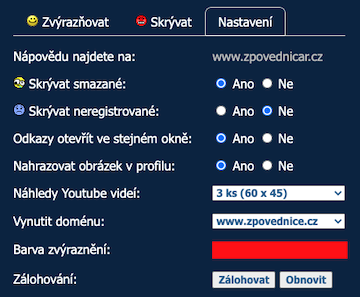
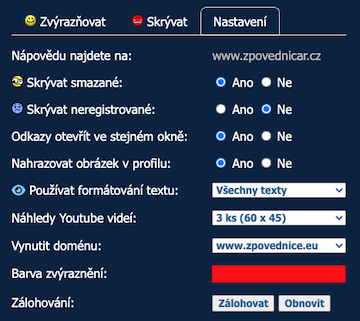
#18 v1.7

diff --git a/README.md b/README.md
@@ -6,9 +6,9 @@
 Po [jednoduché instalaci](INSTALL.md) jsou uživateli k dispozici rozšiřující možnosti ovládání co a jak
 *Zpovědnice* (ne)zobrazuje. Konfigurační nastavení se ukládají pouze v prohlížeči a skripty na jiných
 stránkách k nim nemají přístup. V tuto chvíli (viz
-[další vývoj](https://zpovednicar.github.io/#dal%C5%A1%C3%AD-v%C3%BDvoj-a-spolupr%C3%A1ce)) se neodesílají
-žádné doplňkové síťové požadavky, ani na *Zpovědnici* ani nikam jinam, pracuje se výhradně s informacemi
-zobrazenými na aktuálně zobrazených stránkách *Zpovědnice*, konkrétně na/v:
+[další vývoj](https://zpovednicar.github.io/#dal%C5%A1%C3%AD-v%C3%BDvoj-a-spolupr%C3%A1ce)) se kromě obrázků
+a dat pro emotikony neodesílají žádné doplňkové síťové požadavky, ani na *Zpovědnici* ani nikam jinam, pracuje
+se výhradně s informacemi zobrazenými na aktuálně zobrazených stránkách *Zpovědnice*, konkrétně na/v:
 
 - hlavní straně (přehledu témat)
 - detailu tématu
@@ -71,6 +71,19 @@ uživatel zapne volbu <i>Nahrazovat obrázek v profilu</i> a navštíví profil,
 jfif, pjpeg, pjp, png, svg, webp), profilový obrázek se jím nahradí a bude na něj lze kliknout (pro zobrazení
 jeho cílové adresy), přičemž se při tvorbě odkazu automaticky zohlední výše popsané nastavení <i>Odkazy otevřít
 ve stejném okně</i>.
+</p>
+</details>
+
+<details><summary><strong>Formátování textu</strong></summary>
+<p>
+<ol>
+    <li><strong>Všechny texty</strong> na <i>Zpovědnici</i> lze zobrazit zformátované jako text
+        <a href="https://www.markdownguide.org/basic-syntax/">Markdown</a> - automaticky nebo jednotlivě, na přání.</li>
+    <li><strong>Diagramy a grafy</strong> - v textu lze kromě formátování <i>Markdown</i> použít i diagramy
+        <a href="https://mermaid.live/">Mermaid</a>.</li>
+    <li><stron>Editor textu</stron> - textové pole pro zadávání textu tématu, rozhřešení a vzkazu v profilu
+        nebo návštěvní knize může být nahrazeno editorem s možnostmi náhledu a editace na celé obrazovce.</li>
+</ol>
 </p>
 </details>
 

diff --git a/INSTALL.md b/INSTALL.md
@@ -11,6 +11,7 @@
 | navštivte stránku [Tampermonkey](https://www.tampermonkey.net/) a nainstalujte stabilní verzi rozšíření *Tampermonkey* do prohlížeče                           | ![Tampermonkey](/assets/images/install-tm-site.png)      |
 | navštivte následující odkaz [Zpovědničář - skript](https://www.zpovednicar.cz/userscripts/zpovednicar.user.js) a na zobrazené stránce klikněte na `Instalovat` | ![ZpovednicarInstall](/assets/images/install-script.png) |
 | konfigurační okénko *Zpovědničáře* lze zobrazit pomocí nové položky v menu *Zpovědnice* na hlavní straně                                                       | ![MenuSite](/assets/images/menu-site.png)                |
+| anebo pomocí poslední položky menu v horní části stránek                                                                                                       | ![MenuExtension](/assets/images/menu-top.png)            |
 | anebo v menu rozšíření *Tampermonkey*, položka `Nastavení` pod skriptem *Zpovědničář*                                                                          | ![MenuExtension](/assets/images/menu-extension.png)      |
 | anebo v některých prohlížečích se položka *Tampermonkey* zobrazí v kontextovém menu po stisku pravého tlačítka myši či klepnutím dvěmi prsty na plochu stránky | ![MenuExtension](/assets/images/menu-context.png)        |
 
